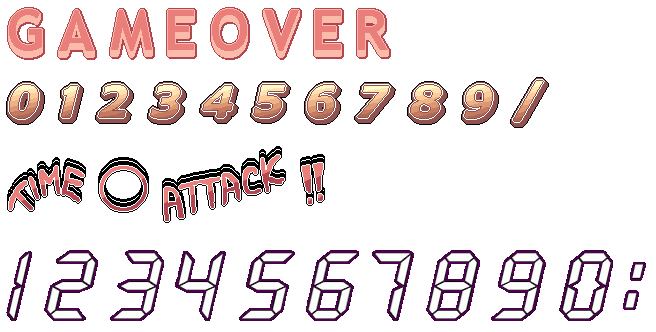
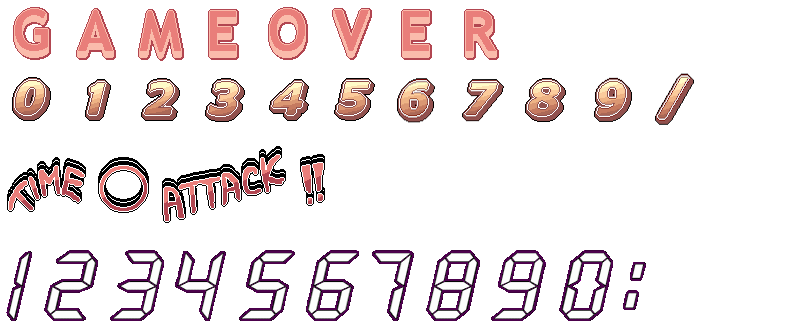
updated timer

diff --git a/src/app/projects/monkeys/monkeys.component.ts b/src/app/projects/monkeys/monkeys.component.ts
@@ -249,8 +249,11 @@ export class MonkeysComponent implements OnInit, OnDestroy, AfterViewInit {
     this.gameService.currentState = GameState.LOADING;
     Promise.all([
       this.spriteService.loadSprites(),
-      this.spriteService.loadBackgroundMetadata()
-        .then(() => this.spriteService.loadRawSpritesheet(this.spriteService.BACKGROUND_TOOL_SPRITESHEET))
+      this.spriteService
+        .loadBackgroundMetadata()
+        .then(() =>
+          this.spriteService.loadRawSpritesheet(this.spriteService.BACKGROUND_TOOL_SPRITESHEET),
+        )
         .catch((err) => console.error('Failed to load background sprites:', err)),
     ])
       .then(() => {
@@ -1448,11 +1451,7 @@ export class MonkeysComponent implements OnInit, OnDestroy, AfterViewInit {
         0,
         Math.floor(45 - (Date.now() - this.gameService.turnStartTime) / 1000),
       );
-      this.ctx.fillStyle = '#FFFFFF';
-      this.ctx.font = '20px Arial';
-      this.ctx.textAlign = 'right';
-      this.ctx.fillText(`Time: ${remaining}s`, this.CANVAS_WIDTH - 20, 30);
-      this.ctx.textAlign = 'left'; // Reset
+      this.drawArenaNumber(String(remaining), this.CANVAS_WIDTH - 20, 8, 64);
     }
 
     // Draw turn message
@@ -1724,17 +1723,15 @@ export class MonkeysComponent implements OnInit, OnDestroy, AfterViewInit {
   private drawParallaxBackground(cameraX: number) {
     const sheet = this.spriteService.getSpritesheet(this.spriteService.BACKGROUND_TOOL_SPRITESHEET);
     if (!sheet) return;
-    const byName = new Map(
-      this.spriteService.getBackgroundSprites().map((s) => [s.name, s]),
-    );
+    const byName = new Map(this.spriteService.getBackgroundSprites().map((s) => [s.name, s]));
 
     // z=0: sky — full cover, no parallax
     const sky = byName.get('sky_background');
     if (sky) this.drawBgCover(sheet, sky, 1);
 
-    // z=1: mountain — parallax 0.15 (barely moves)
+    // z=1: mountain — parallax 0.15, tiled so right edge never shows
     const mountain = byName.get('montain_background');
-    if (mountain) this.drawBgCover(sheet, mountain, 0.7, cameraX * 0.15);
+    if (mountain) this.drawBgCoverTiled(sheet, mountain, 1, cameraX * 0.15);
 
     // z=4: tiled trees band — parallax 0.35
     const trees = byName.get('trees_background');
@@ -1750,7 +1747,7 @@ export class MonkeysComponent implements OnInit, OnDestroy, AfterViewInit {
     // z=8: foreground tree2 instances — parallax 0.80
     for (const inst of this.bgTreeInstances.filter((i) => i.name === 'tree2_background')) {
       const meta = byName.get(inst.name);
-      if (meta) this.drawBgInstance(sheet, meta, inst.worldX, cameraX * 0.80, inst.scale);
+      if (meta) this.drawBgInstance(sheet, meta, inst.worldX, cameraX * 0.8, inst.scale);
     }
   }
 
@@ -1767,7 +1764,46 @@ export class MonkeysComponent implements OnInit, OnDestroy, AfterViewInit {
     const drawH = sprite.height * scale;
     const drawX = (this.CANVAS_WIDTH - drawW) / 2 - offsetX;
     const drawY = (this.CANVAS_HEIGHT - drawH) / 2;
-    this.ctx.drawImage(sheet, sprite.x, sprite.y, sprite.width, sprite.height, drawX, drawY, drawW, drawH);
+    this.ctx.drawImage(
+      sheet,
+      sprite.x,
+      sprite.y,
+      sprite.width,
+      sprite.height,
+      drawX,
+      drawY,
+      drawW,
+      drawH,
+    );
+  }
+
+  // Like drawBgCover but tiles horizontally so edges never show during parallax scrolling.
+  private drawBgCoverTiled(
+    sheet: HTMLImageElement | HTMLCanvasElement,
+    sprite: BackgroundSpriteMetadata,
+    scaleMultiplier: number,
+    offsetX = 0,
+  ) {
+    const scaleX = this.CANVAS_WIDTH / sprite.width;
+    const scaleY = this.CANVAS_HEIGHT / sprite.height;
+    const scale = Math.max(scaleX, scaleY) * scaleMultiplier;
+    const drawW = sprite.width * scale;
+    const drawH = sprite.height * scale;
+    const drawY = (this.CANVAS_HEIGHT - drawH) / 2;
+    const startX = -((offsetX % drawW) + drawW) % drawW;
+    for (let x = startX; x < this.CANVAS_WIDTH; x += drawW) {
+      this.ctx.drawImage(
+        sheet,
+        sprite.x,
+        sprite.y,
+        sprite.width,
+        sprite.height,
+        x,
+        drawY,
+        drawW,
+        drawH,
+      );
+    }
   }
 
   private drawBgTiledBottom(
@@ -1781,7 +1817,17 @@ export class MonkeysComponent implements OnInit, OnDestroy, AfterViewInit {
     const drawY = this.CANVAS_HEIGHT - drawH;
     const startX = -((offsetX % drawW) + drawW) % drawW;
     for (let x = startX; x < this.CANVAS_WIDTH; x += drawW) {
-      this.ctx.drawImage(sheet, sprite.x, sprite.y, sprite.width, sprite.height, x, drawY, drawW, drawH);
+      this.ctx.drawImage(
+        sheet,
+        sprite.x,
+        sprite.y,
+        sprite.width,
+        sprite.height,
+        x,
+        drawY,
+        drawW,
+        drawH,
+      );
     }
   }
 
@@ -1796,7 +1842,17 @@ export class MonkeysComponent implements OnInit, OnDestroy, AfterViewInit {
     const drawH = sprite.height * scaleMultiplier;
     const screenX = worldX - parallaxOffset;
     const drawY = this.CANVAS_HEIGHT - drawH;
-    this.ctx.drawImage(sheet, sprite.x, sprite.y, sprite.width, sprite.height, screenX, drawY, drawW, drawH);
+    this.ctx.drawImage(
+      sheet,
+      sprite.x,
+      sprite.y,
+      sprite.width,
+      sprite.height,
+      screenX,
+      drawY,
+      drawW,
+      drawH,
+    );
   }
 
   private drawMenu() {
@@ -1916,9 +1972,10 @@ export class MonkeysComponent implements OnInit, OnDestroy, AfterViewInit {
 
     this.ctx.font = '16px Arial';
     this.ctx.fillStyle = '#C7D5E0';
-    const activeSheetName = this.terrainToolActiveSheet === 'terrain'
-      ? this.spriteService.TERRAIN_TOOL_SPRITESHEET
-      : this.spriteService.BACKGROUND_TOOL_SPRITESHEET;
+    const activeSheetName =
+      this.terrainToolActiveSheet === 'terrain'
+        ? this.spriteService.TERRAIN_TOOL_SPRITESHEET
+        : this.spriteService.BACKGROUND_TOOL_SPRITESHEET;
     this.ctx.fillText(`Connected-component bounds detection for ${activeSheetName}`, 24, 76);
 
     this.ctx.fillStyle = '#0E1720';
@@ -1953,7 +2010,8 @@ export class MonkeysComponent implements OnInit, OnDestroy, AfterViewInit {
       '#2E7D32',
       '#1B5E20',
     );
-    const switchLabel = this.terrainToolActiveSheet === 'terrain' ? 'Switch to Background' : 'Switch to Terrain';
+    const switchLabel =
+      this.terrainToolActiveSheet === 'terrain' ? 'Switch to Background' : 'Switch to Terrain';
     this.drawButton(
       switchLabel,
       this.TERRAIN_TOOL_SWITCH_BUTTON.x,
@@ -2062,9 +2120,10 @@ export class MonkeysComponent implements OnInit, OnDestroy, AfterViewInit {
 
     this.ctx.font = '15px Arial';
     this.ctx.fillStyle = '#D8E2EA';
-    const spritesheetLabel = this.terrainToolActiveSheet === 'terrain'
-      ? this.spriteService.TERRAIN_TOOL_SPRITESHEET
-      : this.spriteService.BACKGROUND_TOOL_SPRITESHEET;
+    const spritesheetLabel =
+      this.terrainToolActiveSheet === 'terrain'
+        ? this.spriteService.TERRAIN_TOOL_SPRITESHEET
+        : this.spriteService.BACKGROUND_TOOL_SPRITESHEET;
     this.ctx.fillText(`File: ${spritesheetLabel}`, 880, 168);
 
     if (this.terrainToolImage) {
@@ -2187,9 +2246,10 @@ export class MonkeysComponent implements OnInit, OnDestroy, AfterViewInit {
       return;
     }
 
-    const activeSheetPath = this.terrainToolActiveSheet === 'terrain'
-      ? this.spriteService.TERRAIN_TOOL_SPRITESHEET
-      : this.spriteService.BACKGROUND_TOOL_SPRITESHEET;
+    const activeSheetPath =
+      this.terrainToolActiveSheet === 'terrain'
+        ? this.spriteService.TERRAIN_TOOL_SPRITESHEET
+        : this.spriteService.BACKGROUND_TOOL_SPRITESHEET;
 
     this.terrainToolLoading = true;
     try {
@@ -2228,7 +2288,8 @@ export class MonkeysComponent implements OnInit, OnDestroy, AfterViewInit {
     }
 
     if (this.isPointInsideButton(x, y, this.TERRAIN_TOOL_SWITCH_BUTTON)) {
-      this.terrainToolActiveSheet = this.terrainToolActiveSheet === 'terrain' ? 'background' : 'terrain';
+      this.terrainToolActiveSheet =
+        this.terrainToolActiveSheet === 'terrain' ? 'background' : 'terrain';
       this.terrainToolImage = null;
       this.terrainToolRegions = [];
       this.terrainToolSelectedRegionId = null;
@@ -2302,9 +2363,10 @@ export class MonkeysComponent implements OnInit, OnDestroy, AfterViewInit {
   }
 
   private buildTerrainToolExportPayload() {
-    const activeSheetPath = this.terrainToolActiveSheet === 'terrain'
-      ? this.spriteService.TERRAIN_TOOL_SPRITESHEET
-      : this.spriteService.BACKGROUND_TOOL_SPRITESHEET;
+    const activeSheetPath =
+      this.terrainToolActiveSheet === 'terrain'
+        ? this.spriteService.TERRAIN_TOOL_SPRITESHEET
+        : this.spriteService.BACKGROUND_TOOL_SPRITESHEET;
     const prefix = this.terrainToolActiveSheet === 'background' ? 'background' : 'terrain';
     return {
       spritesheets: {},
@@ -2365,6 +2427,50 @@ export class MonkeysComponent implements OnInit, OnDestroy, AfterViewInit {
       y >= button.y - button.height / 2 &&
       y <= button.y + button.height / 2
     );
+  }
+
+  // Draws a string of digits (and '/') right-aligned using arena number sprites.
+  // Falls back to plain text for any character without a sprite.
+  private drawArenaNumber(text: string, rightX: number, topY: number, size: number) {
+    const charToSprite: Record<string, string> = {
+      '0': 'arena_0',
+      '1': 'arena_1',
+      '2': 'arena_2',
+      '3': 'arena_3',
+      '4': 'arena_4',
+      '5': 'arena_5',
+      '6': 'arena_6',
+      '7': 'arena_7',
+      '8': 'arena_8',
+      '9': 'arena_9',
+      '/': 'arena_slash',
+    };
+    const advance = size * 0.6; // tighter kerning — glyphs don't fill full cell
+    const chars = text.split('');
+    let x = rightX - chars.length * advance;
+    for (const ch of chars) {
+      const spriteName = charToSprite[ch];
+      const sprite = spriteName ? this.spriteService.getSprite(spriteName) : null;
+      if (sprite) {
+        this.ctx.drawImage(
+          sprite.image,
+          sprite.x,
+          sprite.y,
+          sprite.width,
+          sprite.height,
+          x,
+          topY,
+          size,
+          size,
+        );
+      } else {
+        this.ctx.fillStyle = '#FFFFFF';
+        this.ctx.font = `${size}px Arial`;
+        this.ctx.textAlign = 'left';
+        this.ctx.fillText(ch, x, topY + size);
+      }
+      x += advance;
+    }
   }
 
   private drawButton(
